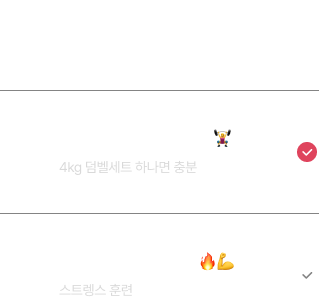
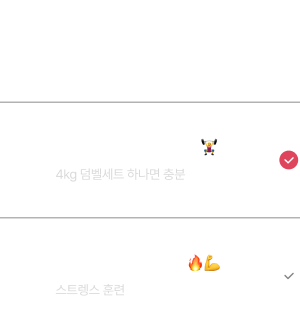
Modify onboarding component 이미지 변경

diff --git a/lib/common/view/splash_screen.dart b/lib/common/view/splash_screen.dart
@@ -122,7 +122,7 @@ class _BottomViewState extends State<_BottomView> {
                     height: 320,
                     child: Image.asset(
                       IMGConstants.onboardComponent[index],
-                      fit: BoxFit.fill,
+                      fit: BoxFit.fitHeight,
                     ),
                   ),
                   const SizedBox(
